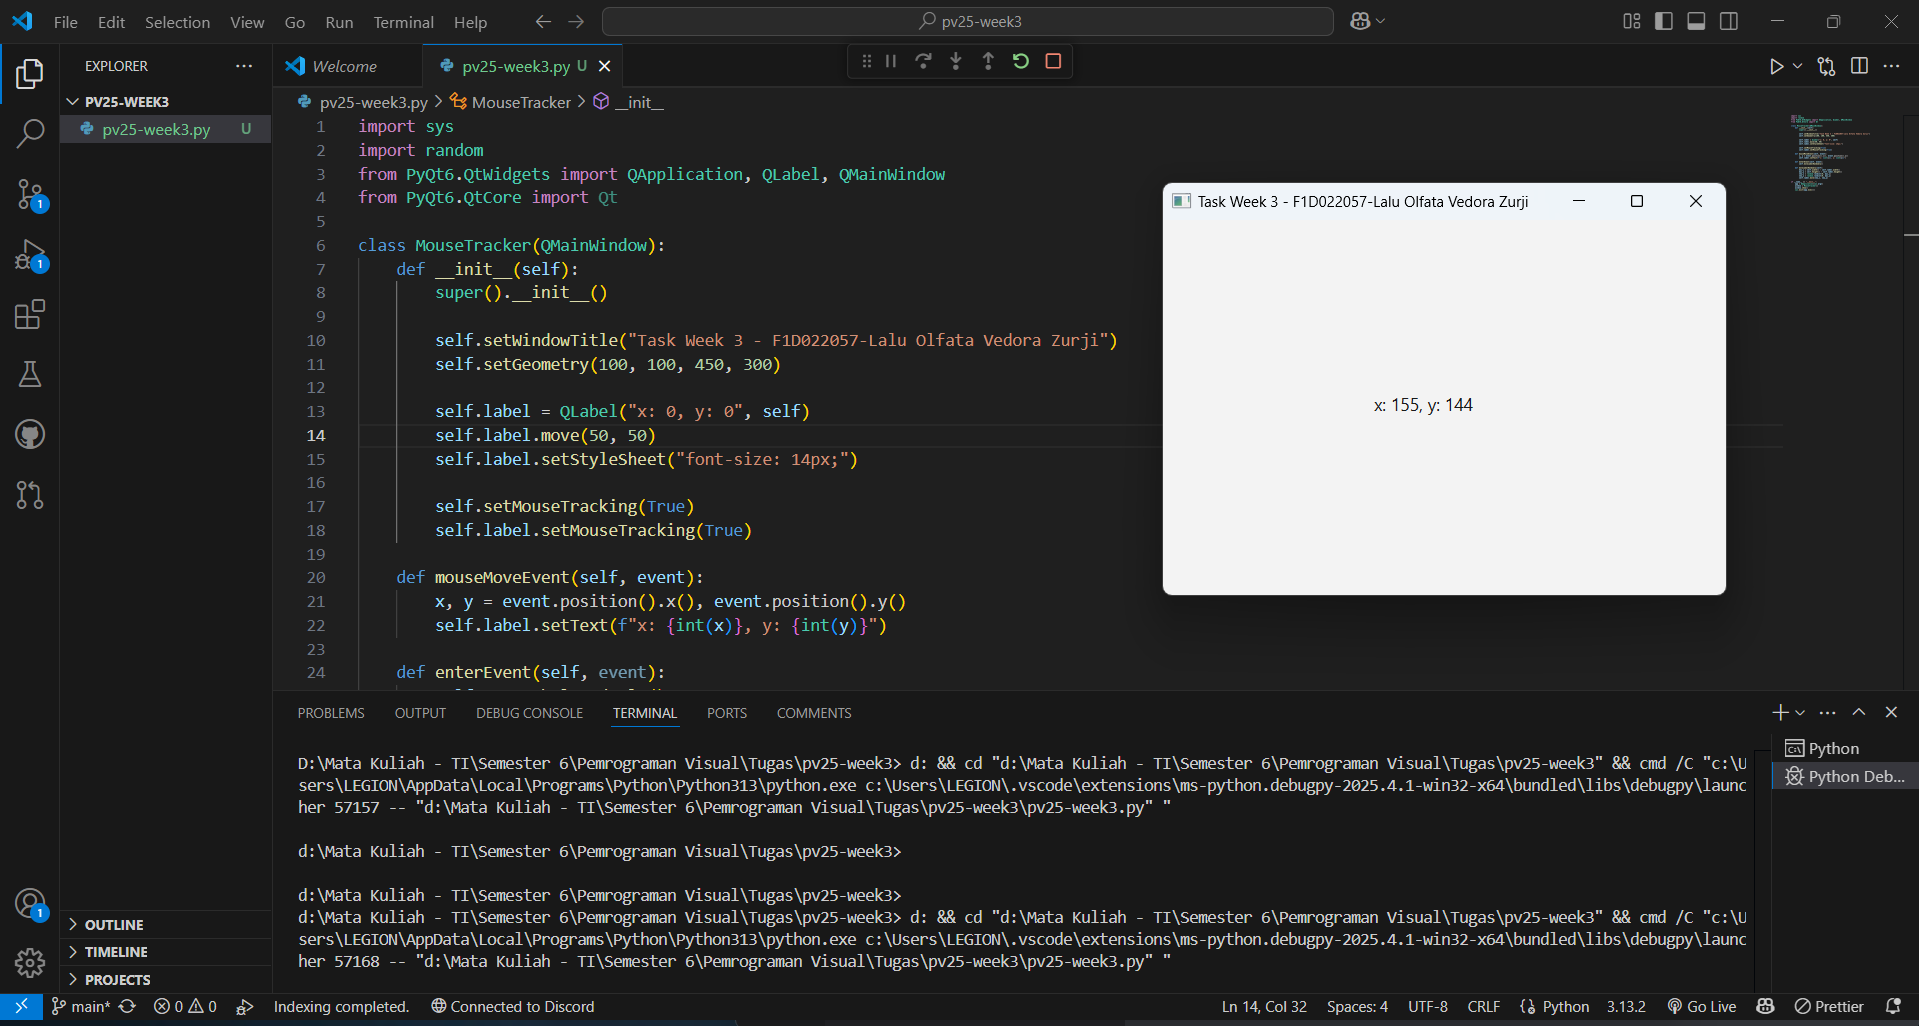
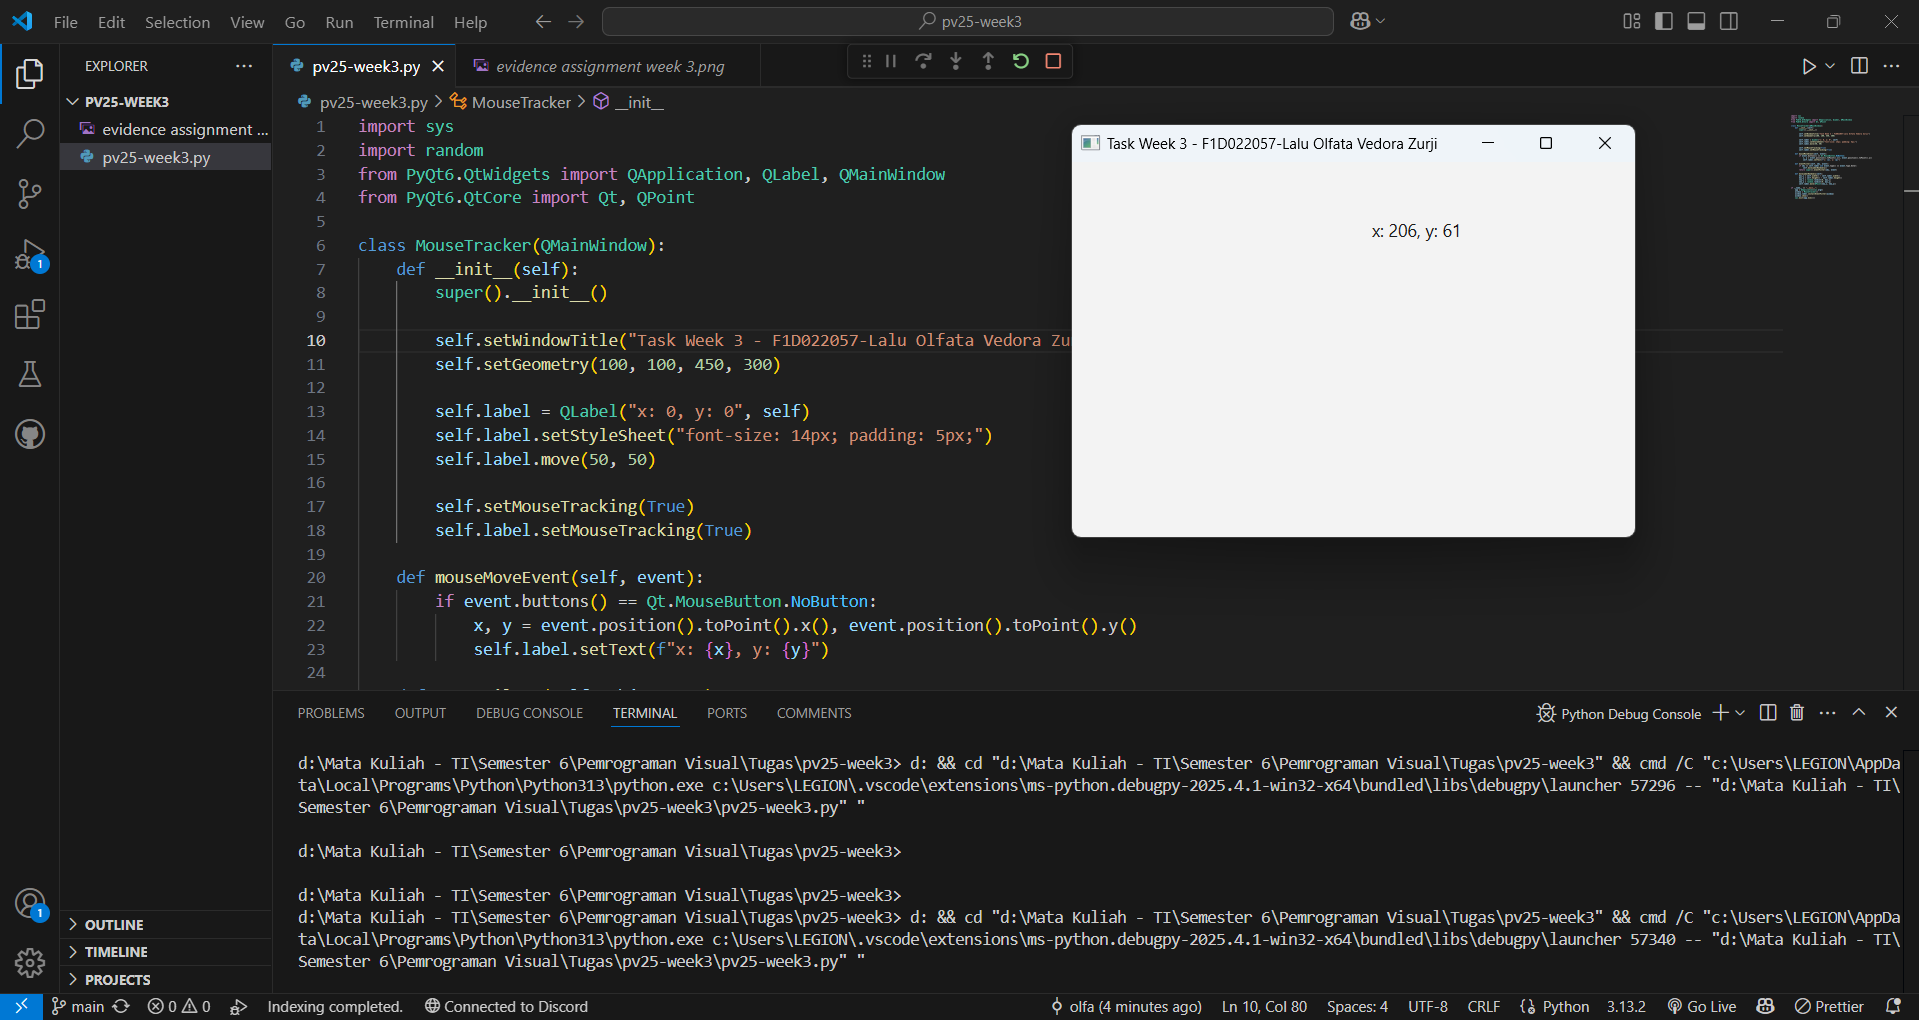
update label & evidence

diff --git a/pv25-week3.py b/pv25-week3.py
@@ -10,7 +10,7 @@ class MouseTracker(QMainWindow):
         self.setWindowTitle("Task Week 3 - F1D022057-Lalu Olfata Vedora Zurji")
         self.setGeometry(100, 100, 450, 300)
         
-        self.label = QLabel("x: 0, y: 0", self)
+        self.label = QLabel(self)
         self.label.setStyleSheet("font-size: 14px; padding: 5px;")
         self.label.move(50, 50)
         
